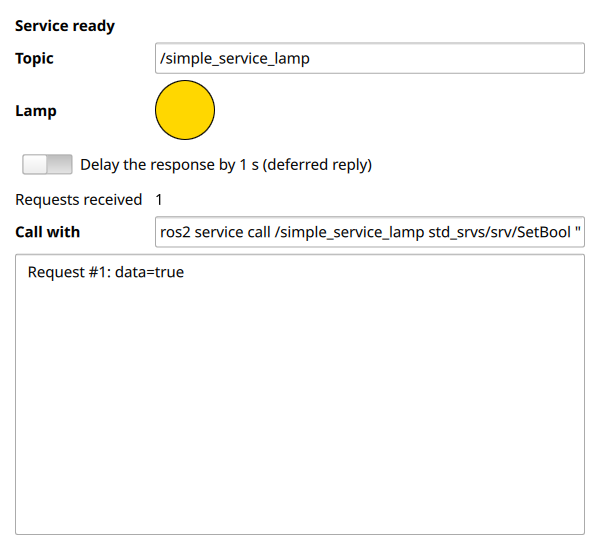
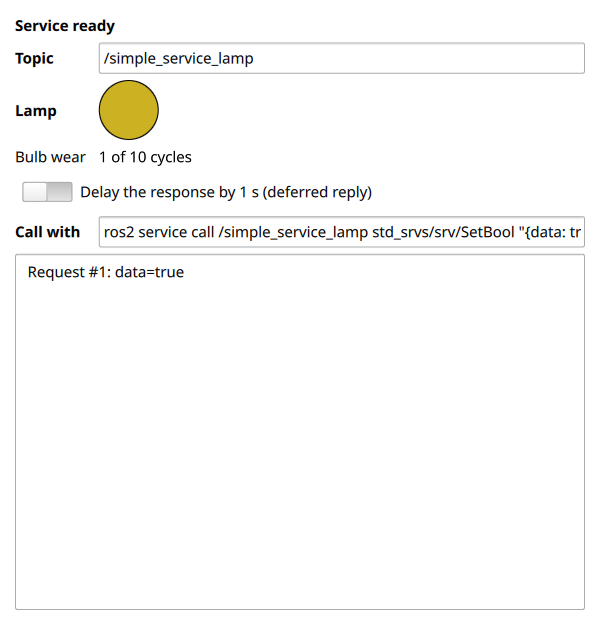
examples: make simple_service and simple_service_client declarative
Rewrite the pair around the new bindable service state. The server
answers via a response binding (no handler in the default style), with
per-request effects in onRequestReceived; to make failure handling
honest, the bulb burns out after ten switching cycles and the service
starts answering success: false until the bulb is replaced -
demonstrating that ROS 2 service failure is in-band and therefore just
another branch of the response expression. The deferred-reply switch
now also demonstrates handler precedence by binding the handler
property itself, and the delayed reply sends the same declarative
response value.

The client replaces its on/off buttons with a switch bound to the
request property: desired state, reconciled with the server whenever it
changes or becomes reachable, with the result bound from response.
Update the example doc pages and screenshots accordingly.

Changed region(s): [[0.0, 0.0309, 0.99, 0.5255], [0.03, 0.9582, 0.96, 0.9891], [0.03, 0.1545, 0.09, 0.2164]]

diff --git a/examples/simple_service/Main.qml b/examples/simple_service/Main.qml
@@ -8,12 +8,12 @@ import QtRos2.StdSrvs
 Window {
     id: root
     width: 480
-    height: 440
+    height: 500
     visible: true
     title: `Service ${lampService.topic}`
 
-    property bool lampOn: false
-    property int requestCount: 0
+    property int cycles: 0
+    readonly property bool burnedOut: cycles >= 10
     property string lastRequest: qsTr("No requests received yet.")
 
     Node {
@@ -24,29 +24,29 @@ Window {
             id: lampService
             topic: topicField.text
 
-            // The handler is invoked on the GUI thread for every incoming
-            // request. For std_srvs/SetBool the request payload is a plain
-            // bool; `reply` allows answering later when the work takes time.
-            handler: (request, reply) => {
-                ++root.requestCount
-                root.lampOn = request
-                root.lastRequest = `Request #${root.requestCount}: data=${request}`
-
-                if (delaySwitch.checked) {
-                    // Deferred style: return undefined now and answer from
-                    // replyTimer once the "work" is done. The ROS executor is
-                    // not blocked while the reply is pending.
-                    replyTimer.pendingReplies.push(reply)
-                    replyTimer.restart()
-                    return
-                }
-
-                // Synchronous style: return the response object directly.
-                return {
-                    success: true,
-                    message: `lamp is now ${request ? "on" : "off"}`
-                }
+            // Effects and bookkeeping are imperative, in the signal handler...
+            onRequestReceived: request => {
+                ++root.cycles
+                root.lastRequest = `Request #${root.cycles}: data=${request}`
             }
+
+            // ...while the response is declarative: each request is answered
+            // with the current value of this binding. It re-evaluates after
+            // request and onRequestReceived update, so root.cycles is already
+            // current — the request that burns out the bulb gets the failure.
+            response: root.burnedOut
+                ? ({ success: false, message: "the bulb is burned out" })
+                : ({ success: true, message: `lamp is now ${lampService.request ? "on" : "off"}` })
+
+            // Deferred style, selected by the switch: a callable handler takes
+            // precedence over the declarative response. This one parks the
+            // reply and answers from the timer below when the "work" is done.
+            handler: delaySwitch.checked
+                ? (request, reply) => {
+                      replyTimer.pendingReplies.push(reply)
+                      replyTimer.restart()
+                  }
+                : undefined
         }
     }
 
@@ -55,12 +55,8 @@ Window {
         interval: 1000
         property var pendingReplies: []
         onTriggered: {
-            for (const reply of pendingReplies) {
-                reply.send({
-                    success: true,
-                    message: `lamp is now ${root.lampOn ? "on" : "off"} (delayed reply)`
-                })
-            }
+            for (const reply of pendingReplies)
+                reply.send(lampService.response)   // same declarative value, later
             pendingReplies = []
         }
     }
@@ -97,22 +93,31 @@ Window {
             width: 48
             height: 48
             radius: 24
-            color: root.lampOn ? "gold" : "dimgray"
+            color: root.burnedOut ? "black"
+                 : lampService.request ? "gold" : "dimgray"
             border.color: "black"
             Behavior on color { ColorAnimation { duration: 150 } }
+        }
+
+        Label {
+            text: qsTr("Bulb wear")
+        }
+        RowLayout {
+            Label {
+                text: root.burnedOut ? qsTr("%1 cycles — burned out!").arg(root.cycles)
+                                     : qsTr("%1 of 10 cycles").arg(root.cycles)
+            }
+            Button {
+                text: qsTr("Replace bulb")
+                visible: root.burnedOut
+                onClicked: root.cycles = 0
+            }
         }
 
         Switch {
             id: delaySwitch
             text: qsTr("Delay the response by 1 s (deferred reply)")
             Layout.columnSpan: 2
-        }
-
-        Label {
-            text: qsTr("Requests received")
-        }
-        Label {
-            text: root.requestCount
         }
 
         Label {

diff --git a/examples/simple_service_client/Main.qml b/examples/simple_service_client/Main.qml
@@ -12,8 +12,6 @@ Window {
     visible: true
     title: `Service client ${lampClient.topic}`
 
-    property string lastResponse: qsTr("Press On or Off to call the service.")
-
     Node {
         id: rosNode
         nodeName: "simple_service_client_node"
@@ -21,19 +19,13 @@ Window {
         SetBoolServiceClient {
             id: lampClient
             topic: topicField.text
-        }
-    }
 
-    function switchLamp(on) {
-        root.lastResponse = qsTr("Calling...")
-        // callService() returns a JS promise that resolves with the
-        // std_srvs/SetBool response (success, message).
-        lampClient.callService(on).then(response => {
-            root.lastResponse =
-                `success: ${response.success}\nmessage: "${response.message}"`
-        }, error => {
-            root.lastResponse = qsTr("Call failed: ") + error
-        })
+            // Desired lamp state: every change of the switch calls the
+            // service automatically (autoCall is on by default). If the
+            // server is not up yet or a call is in flight, the latest
+            // value is applied as soon as possible.
+            request: lampSwitch.checked
+        }
     }
 
     GridLayout {
@@ -61,15 +53,24 @@ Window {
             text: "/simple_service_lamp"
         }
 
-        Button {
-            text: qsTr("Turn lamp on")
-            enabled: lampClient.isServiceReady && !lampClient.isCallPending
-            onClicked: root.switchLamp(true)
+        Switch {
+            id: lampSwitch
+            text: qsTr("Lamp")
+            Layout.columnSpan: 2
         }
-        Button {
-            text: qsTr("Turn lamp off")
-            enabled: lampClient.isServiceReady && !lampClient.isCallPending
-            onClicked: root.switchLamp(false)
+
+        Label {
+            text: qsTr("Result")
+            font.bold: true
+        }
+        Label {
+            Layout.fillWidth: true
+            wrapMode: Text.Wrap
+            text: lampClient.response.message
+                  ? `${lampClient.response.success ? qsTr("OK") : qsTr("FAILED")}: ${lampClient.response.message}`
+                  : qsTr("Flip the switch to call the service.")
+            color: !lampClient.response.message || lampClient.response.success
+                   ? palette.text : "firebrick"
         }
 
         Label {
@@ -82,13 +83,6 @@ Window {
             text: qsTr("Run the Simple Service example with the same topic.")
         }
 
-        TextArea {
-            Layout.columnSpan: 2
-            Layout.fillWidth: true
-            Layout.fillHeight: true
-            readOnly: true
-            wrapMode: TextEdit.Wrap
-            text: root.lastResponse
-        }
+        Item { Layout.columnSpan: 2; Layout.fillHeight: true }
     }
 }
